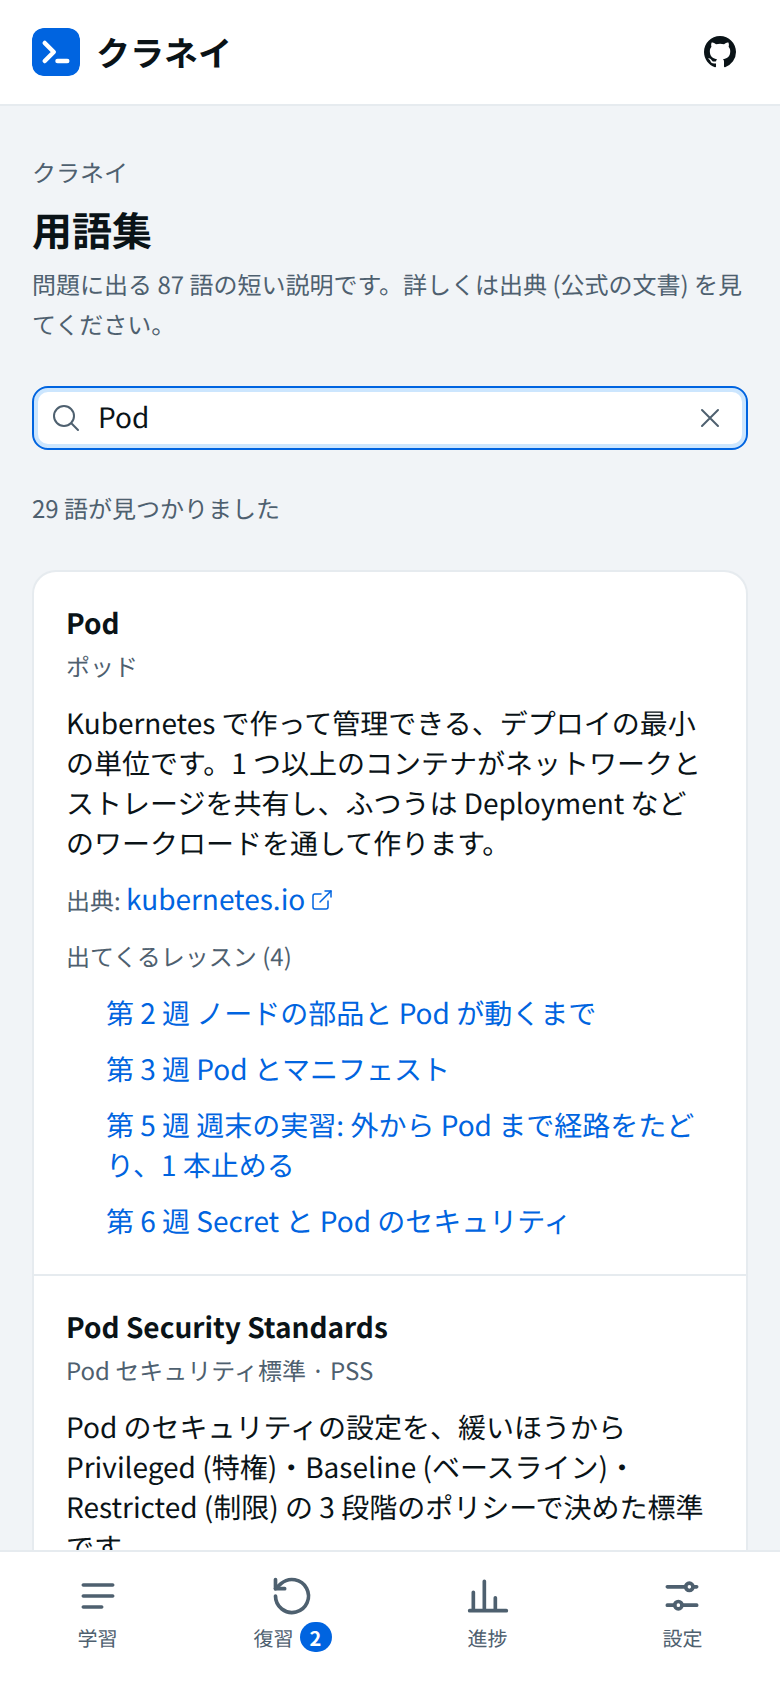
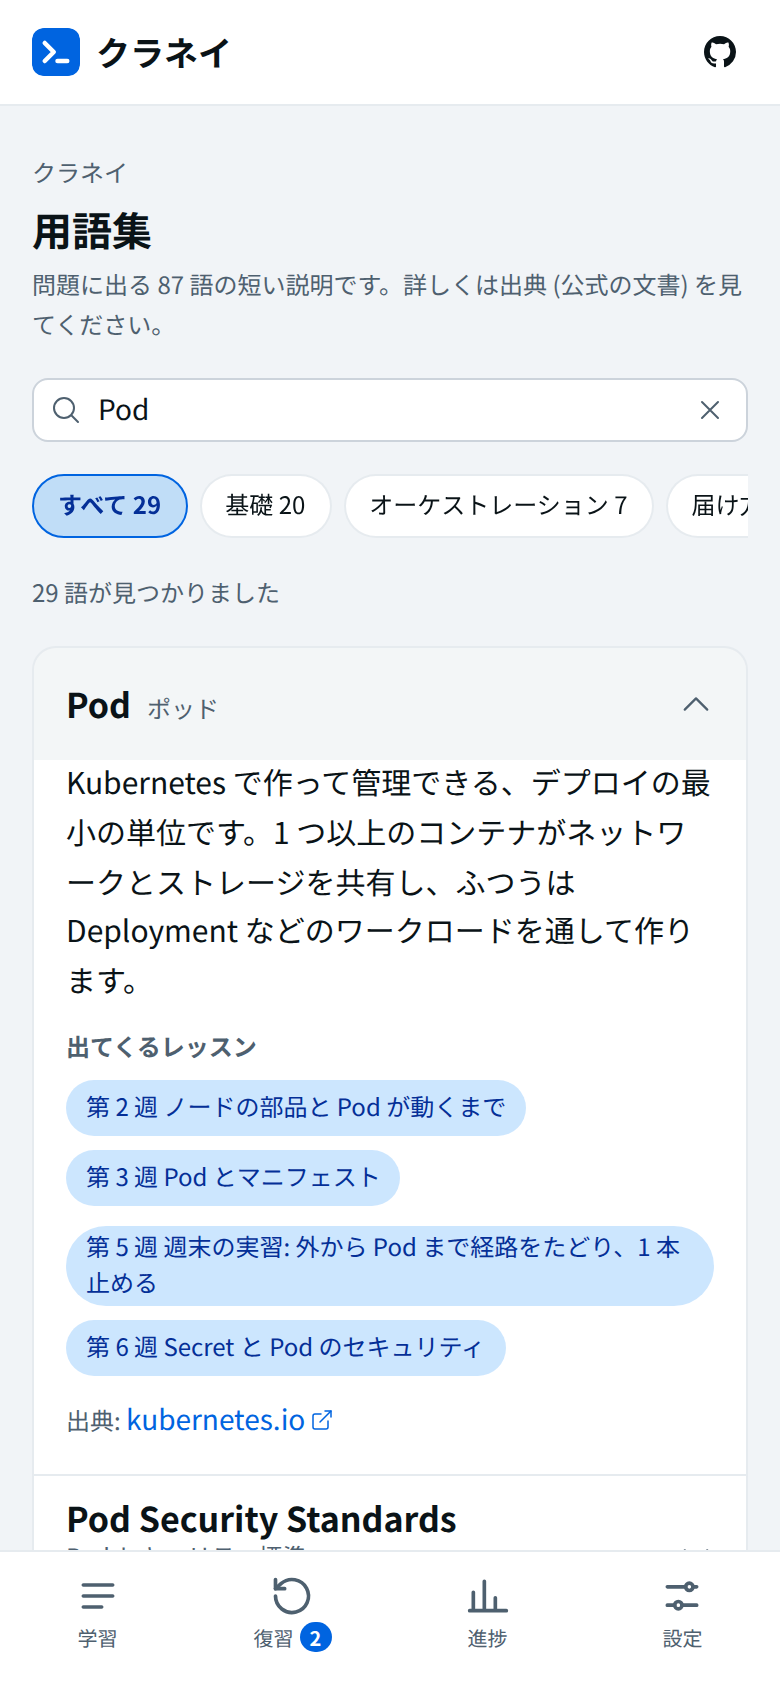
用語集のレビューの指摘を直す
- PC の一覧と説明を grid の 2 列に固定し、768〜1000 幅で説明欄が画面の外に回らないようにした (V-001)
- 押された絞り込みの札を薄い青の地に濃い青の字にした (ダークで 3.11:1 → 8:1 以上) (V-002)
- PC の一覧をロービングタブインデックスにし、上下の矢印・Home・End で移る。aria-controls で説明欄を指す (V-003)
- 閉じた行の説明の 1 行目は読み上げない。語を h2 で包み、見出しで飛べるようにした (V-004, V-005)
- README の用語集の画像と説明を撮り直した (V-006)
- e2e: 900x700 で説明欄が画面の中、押した札の状態、矢印での移動を確かめる (V-007)
- 検索や絞り込みで消えた語の選択・開閉は外す (V-008)。一覧の高さの下限 (V-009)。説明欄の aria-live を外した (V-010)

Changed region(s): [[0.0308, 0.2156, 0.9538, 0.9242], [0.8, 0.5237, 0.8923, 0.5545]]

diff --git a/src/screens/Glossary.tsx b/src/screens/Glossary.tsx
@@ -1,4 +1,4 @@
-import { useMemo, useState } from 'react';
+import { useEffect, useMemo, useRef, useState } from 'react';
 import { AppShell } from '@astryxdesign/core/AppShell';
 import { Link } from '@astryxdesign/core/Link';
 import { VStack } from '@astryxdesign/core/Stack';
@@ -86,24 +86,34 @@ function Filters({ value, onChange, counts }: { value: Domain | 'all'; onChange:
 /** スマホ: 語と説明の 1 行目だけの閉じた一覧。押すと開く */
 function PhoneList({ hits }: { hits: Entry[] }) {
   const [open, setOpen] = useState<string | null>(null);
+  // 検索や絞り込みで消えた語は閉じたことにする (戻したときに勝手に開かない)
+  useEffect(() => {
+    if (open && !hits.some((t) => t.id === open)) setOpen(null);
+  }, [hits, open]);
   return (
     <ul className="gloss-rows">
       {hits.map((t) => {
         const isOpen = open === t.id;
         return (
           <li key={t.id} className="gloss-row">
-            <button type="button" className="gloss-row__head" aria-expanded={isOpen} onClick={() => setOpen(isOpen ? null : t.id)}>
+            <h2 className="gloss-row__h">
+            <button type="button" className="gloss-row__head" aria-expanded={isOpen} aria-controls={`gloss-body-${t.id}`} onClick={() => setOpen(isOpen ? null : t.id)}>
               <span className="gloss-row__text">
                 <span className="gloss-row__name">
                   <span className="gloss-row__term">{t.term}</span>
                   {t.aliases?.[0] && <span className="gloss-row__alias">{t.aliases[0]}</span>}
                 </span>
-                {!isOpen && <span className="gloss-row__gist">{t.description}</span>}
+                {!isOpen && (
+                  <span className="gloss-row__gist" aria-hidden="true">
+                    {t.description}
+                  </span>
+                )}
               </span>
               <ChevronDownIcon width={18} height={18} aria-hidden="true" className={isOpen ? 'gloss-row__chev gloss-row__chev--open' : 'gloss-row__chev'} />
             </button>
+            </h2>
             {isOpen && (
-              <div className="gloss-row__body">
+              <div className="gloss-row__body" id={`gloss-body-${t.id}`}>
                 {t.aliases && t.aliases.length > 1 && <Text type="supporting">{t.aliases.join(' · ')}</Text>}
                 <Detail t={t} />
               </div>
@@ -118,13 +128,28 @@ function PhoneList({ hits }: { hits: Entry[] }) {
 /** PC: 左に分野ごとの語の一覧、右に選んだ語の説明 */
 function DeskList({ hits }: { hits: Entry[] }) {
   const [picked, setPicked] = useState<string | null>(null);
+  const buttons = useRef(new Map<string, HTMLButtonElement>());
+  // 検索や絞り込みで消えた語の選択は外す (戻したときに勝手に戻らない)
+  useEffect(() => {
+    if (picked && !hits.some((t) => t.id === picked)) setPicked(null);
+  }, [hits, picked]);
   const current = hits.find((t) => t.id === picked) ?? hits[0];
   const groups: { d: string; items: Entry[] }[] = ORDER.map((d) => ({ d: d as string, items: hits.filter((t) => t.domain === d) })).filter((g) => g.items.length > 0);
   const other = hits.filter((t) => !t.domain);
   if (other.length) groups.push({ d: 'その他', items: other });
+  // 一覧はロービングタブインデックス: Tab で入るのは今の語だけ、上下の矢印・Home・End で移る
+  const ordered = groups.flatMap((g) => g.items);
+  const move = (e: React.KeyboardEvent, from: string) => {
+    const i = ordered.findIndex((t) => t.id === from);
+    const to = e.key === 'ArrowDown' ? i + 1 : e.key === 'ArrowUp' ? i - 1 : e.key === 'Home' ? 0 : e.key === 'End' ? ordered.length - 1 : null;
+    if (to === null || to < 0 || to >= ordered.length) return;
+    e.preventDefault();
+    setPicked(ordered[to].id);
+    buttons.current.get(ordered[to].id)?.focus();
+  };
   return (
     <div className="gloss-desk">
-      <nav aria-label="用語の一覧" className="gloss-index">
+      <nav aria-label="用語の一覧 (上下の矢印で移る)" className="gloss-index">
         {groups.map((g) => (
           <section key={g.d}>
             <h2 className="gloss-index__head">
@@ -133,7 +158,19 @@ function DeskList({ hits }: { hits: Entry[] }) {
             <ul className="gloss-index__list">
               {g.items.map((t) => (
                 <li key={t.id}>
-                  <button type="button" className="gloss-index__item" aria-current={current?.id === t.id ? 'true' : undefined} onClick={() => setPicked(t.id)}>
+                  <button
+                    type="button"
+                    className="gloss-index__item"
+                    ref={(el) => {
+                      if (el) buttons.current.set(t.id, el);
+                      else buttons.current.delete(t.id);
+                    }}
+                    tabIndex={current?.id === t.id ? 0 : -1}
+                    aria-current={current?.id === t.id ? 'true' : undefined}
+                    aria-controls="gloss-pane"
+                    onClick={() => setPicked(t.id)}
+                    onKeyDown={(e) => move(e, t.id)}
+                  >
                     <span className="gloss-index__term">{t.term}</span>
                     {t.aliases?.[0] && <span className="gloss-index__alias">{t.aliases[0]}</span>}
                   </button>
@@ -144,10 +181,12 @@ function DeskList({ hits }: { hits: Entry[] }) {
         ))}
       </nav>
       {current && (
-        <article className="gloss-pane" aria-live="polite">
+        <article className="gloss-pane" id="gloss-pane" aria-labelledby="gloss-pane-term">
           <div>
             {current.domain && <Text type="supporting">{current.domain}</Text>}
-            <h2 className="gloss-pane__term">{current.term}</h2>
+            <h2 className="gloss-pane__term" id="gloss-pane-term">
+              {current.term}
+            </h2>
             {current.aliases && current.aliases.length > 0 && <Text type="supporting">{current.aliases.join(' · ')}</Text>}
           </div>
           <Detail t={current} large />

diff --git a/src/styles.css b/src/styles.css
@@ -487,13 +487,15 @@ body {
 }
 
 .gloss-filter[aria-pressed='true'] {
+  /* 白字に accent の地はダークで 3.11:1 しか無いので、薄い青の地に濃い青の字 (8:1 以上) */
   border-color: var(--color-accent);
-  background: var(--color-accent);
-  color: var(--color-on-accent);
+  background: var(--color-accent-muted);
+  color: var(--color-text-blue);
+  font-weight: 600;
 }
 
 .gloss-filter__count {
-  opacity: 0.75;
+  color: inherit;
 }
 
 .gloss-rows,
@@ -509,6 +511,11 @@ body {
   border: 1px solid var(--color-border);
   border-radius: var(--radius-container);
   overflow: hidden;
+}
+
+.gloss-row__h {
+  margin: 0;
+  font: inherit;
 }
 
 .gloss-row + .gloss-row {
@@ -640,16 +647,15 @@ body {
 }
 
 .gloss-desk {
-  display: flex;
-  flex-wrap: wrap;
+  /* 折り返すと説明欄が一覧の下 (画面の外) に回るので、いつも 2 列 */
+  display: grid;
+  grid-template-columns: minmax(12rem, 20rem) minmax(0, 1fr);
   gap: var(--spacing-4);
-  align-items: flex-start;
+  align-items: start;
 }
 
 .gloss-index {
-  flex: 1 1 260px;
-  max-width: 340px;
-  max-height: calc(100vh - 260px);
+  max-height: max(15rem, calc(100dvh - 260px));
   overflow-y: auto;
   background: var(--color-background-card);
   border: 1px solid var(--color-border);
@@ -694,7 +700,6 @@ body {
 }
 
 .gloss-pane {
-  flex: 2 1 420px;
   min-width: 0;
   position: sticky;
   top: var(--spacing-4);

diff --git a/README.md b/README.md
@@ -39,7 +39,7 @@
     <td>復習。間違えた問題を 1・3・7 日後に出す</td>
     <td>進捗。計画との差と、分野ごとの正答率を見る</td>
     <td>模擬試験。4 分野の配点の割合で 60 問・90 分。途中では正誤を見せない</td>
-    <td>用語集。用語・別名・説明から探し、出てくるレッスンへ飛べる</td>
+    <td>用語集。語と説明の 1 行目の一覧を押して開く。分野で絞り、出てくるレッスンへ飛べる</td>
   </tr>
 </table>
 
